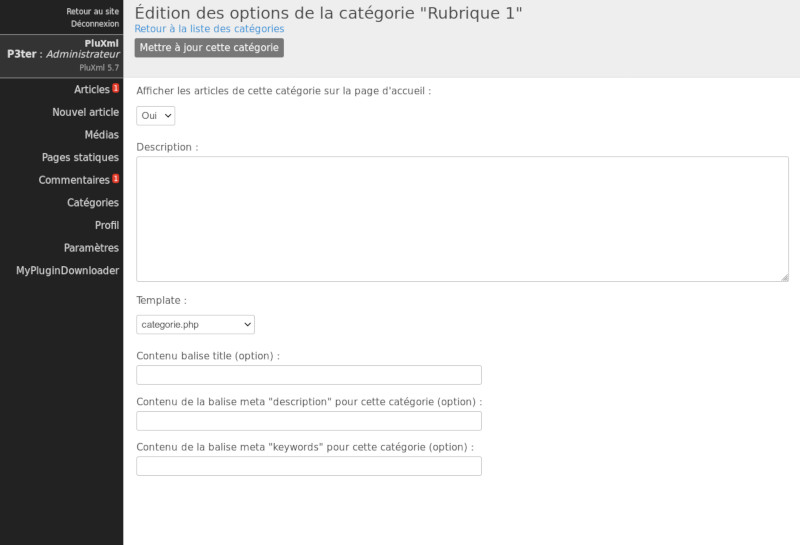
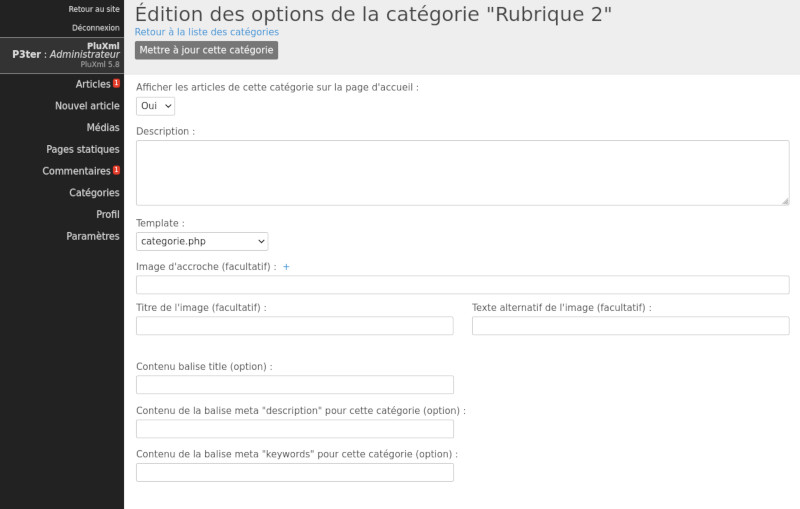
[pluxml 5.8] maj personnaliser

diff --git a/docs/utiliser/utilisation.md b/docs/utiliser/utilisation.md
@@ -33,6 +33,8 @@ Vous disposez d’un moteur de recherche pour retrouver facilement un article. S
 ### Gérer un article
 Une fois connecté au panneau d’administration, l’ensemble des articles rédigés ou en cours de rédaction, sont listés dans la section Articles. Lors de la première installation, un premier article est créé pour permettre de se familiariser avec les outils d’édition. Cet article peut être modifié en cliquant sur son titre : *Premier article*.
 
+![écrire un article](img/ecrire-article.jpg)
+
 Pour rédiger un nouvel article, cliquez sur le lien *Nouvel article* dans la barre des menus dans le panneau d’administration. La page d’édition d'un article est composée de deux parties principales : la partie centrale qui contient les formulaires pour rédiger le contenu de l'article et une partie à droite qui liste les options.
 
 #### Barre d’action
@@ -373,7 +375,6 @@ Vous avez la possibilité de choisir une mise en page pour votre page statique (
 
 Si vous n’êtes pas familier avec le langage HTML, il existe plusieurs plugins qui vous permettront d’enrichir ces formulaires avec un éditeur WYSIWYG.
 
-
 __Balises title et meta__
 
 PluXml vous offre la possibilité de choisir vos balises title et méta pour chacune de vos pages. Si vous choisissez de ne pas personnaliser ces balises, PluXml utilisera celle que vous avez choisie dans les paramètres généraux du site.
@@ -451,6 +452,10 @@ Pour attribuer un template à une catégorie, cliquez sur le menu Catégorie, re
 
 !!! note
     Voir la section : Les Templates
+
+__Image d’accroche__
+
+Cette option facultative vous permet d’ajouter une image d’illustration à la catégorie. En cliquant sur l’icône « + », vous pourrez sélectionner une image dans le Gestionnaire de médias. Le titre de l’image (facultatif) sera visible au survol de l’image avec la souris. Le texte alternatif de l’image (facultatif) est le texte affiché à la place de l’image si celle-ci n’existe pas ou plus sur le serveur.
 
 __Balises title et meta__
 

diff --git a/docs/installer/installation.md b/docs/installer/installation.md
@@ -157,7 +157,8 @@ Le login de connexion et le mot de passe sont ceux que vous avez définis lors d
 
 # Réinitialiser le mot de passe admin
 
-La procédure suivante, vous permettra de réinitialiser votre mot de passe admin, dans le cas ou la procédure "mot de passe" oublié via l'envoi d'un e-mail n'a pas fonctionné.
+!!! note
+    La procédure suivante, vous permettra de réinitialiser votre mot de passe admin, dans le cas ou la procédure "mot de passe" oublié via l'envoi d'un e-mail n'a pas fonctionné.
 
 __Récupérer un nouveau mot de passe__
 
